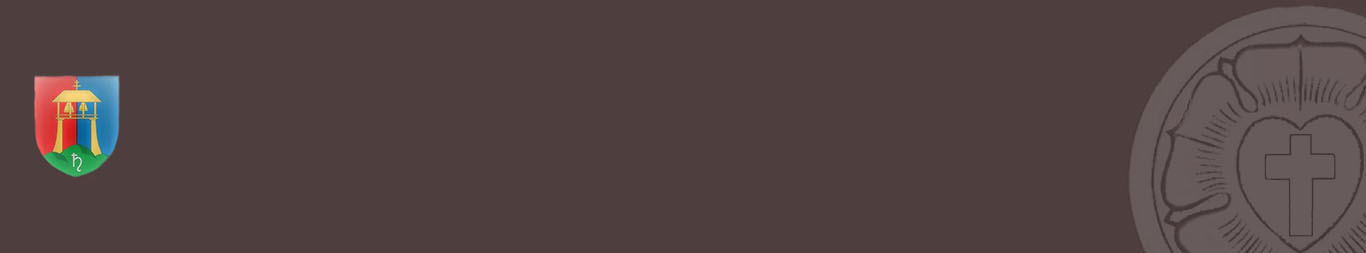
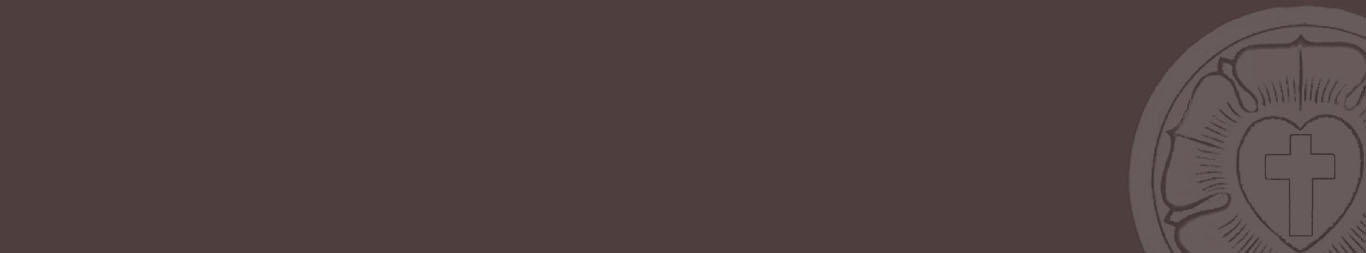
Footer
Footer modified

Changed region(s): [[0.0, 0.2767, 0.0922, 0.6917]]

diff --git a/style/style.css b/style/style.css
@@ -1,7 +1,7 @@
 @import url('https://fonts.googleapis.com/css2?family=Texturina:wght@100;600&display=swap');
 * {
     box-sizing: border-box;
-    color: #B8ABAB;
+    
 }
 
 .wrapper {
@@ -13,6 +13,7 @@
     font-family: 'Texturina', serif;
     padding-left:3px;
     padding-right: 3px;
+    color: #9e9292;
 }
 header {
     display: flex;
@@ -25,6 +26,7 @@ header {
     /**/
     -webkit-box-shadow: 0px 6px 16px 0px rgba(109,105,79,0.4); 
     box-shadow: 0px 6px 16px 0px rgba(109,105,79,0.4);
+    color: white;
 }
 .menu_Btn_container {
     align-self: center;
@@ -175,4 +177,16 @@ footer {
     height: 250px;
     width: 100%;
     margin-top: 50px;
+    display: flex;
+    align-items: center;
+}
+.bszlogo_container {
+    margin-left: 20px;
+}
+.bszlogo_container img {
+    width: 120px;
+    height: 150px;
+}
+.footer_inf ul{
+    font-size: 18px;
 }

diff --git a/index.html b/index.html
@@ -278,7 +278,18 @@
                 </div>
             </main>
             <footer>
-                
+                <div class="bszlogo_container">
+                    <img src="pics/bszh.jpg">
+                </div>
+                <div class="footer_inf">
+                    <ul>
+                        <li>Kapcsolat</li>
+                        <li>Lelkész: Bajnóczi Márió</li>
+                        <li>E-mail: mario.bajnoczi@lutheran.hu</li>
+                        <li>Tel.: +36-34/359-313</li>
+                        <li>Lelkészi hivatal: 2884 Bakonyszombathely, Kossuth Lajos utca 38.</li>
+                    </ul>
+                </div>
             </footer>
         </div>
     </body>
